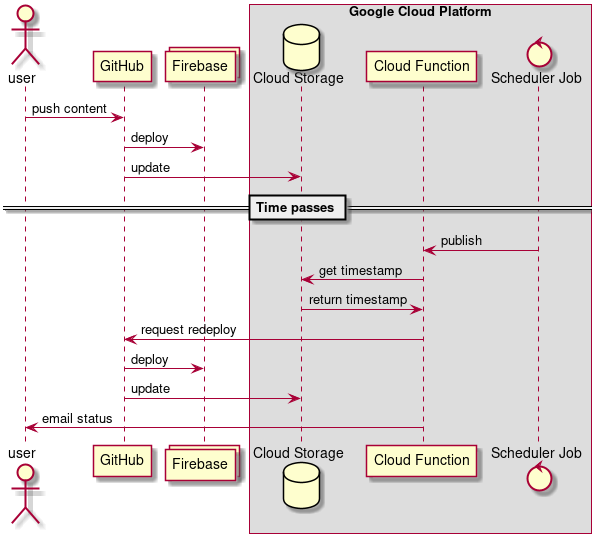
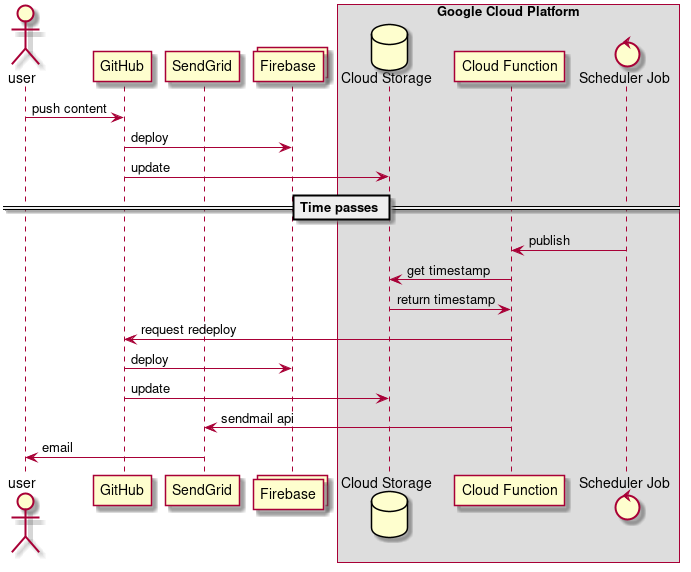
Finish up the docs

diff --git a/README.md b/README.md
@@ -2,7 +2,7 @@
 
 System to redeploy a hugo web site when a future dated post is ready.
 
-[Hugo](https://gohugo.io/) allows the user specify that a peice of content
+[Hugo](https://gohugo.io/) allows the user specify that a piece of content
 (e.g. a post) is not to be added as a part of the site until some date in the
 future. But Hugo is static generator. So, when that date arrives, something
 must regenerate the site and deploy the update to the hosting solution.
@@ -18,6 +18,7 @@ This software is an attempt to automate the task.
 - **Pushes still deploy immediately** No interference with
   "hot-off-the-presses" updates.
 - **Supports Hugo extended**
+- **Email with status**
 
 Last, but not least ...
 
@@ -42,6 +43,10 @@ _time passes_
         - call back into github to start the actions
     3. Send email about what it did (or did not do).
 
+The Scheduler Job is configured by default to run once a day. The system only
+keeps track of posts to the day. In its current state, it cannot redeploy
+things more than once a day.
+
 ## Installing
 
 Lots more documentation to come ...
@@ -50,9 +55,10 @@ Lots more documentation to come ...
 
 #### GitHub Repository
 
-Sure, that might be be obivous, but you need a GitHub repostiry with the site
-already et up. It is very helpful if you already have successfully deployed the
-your site using the repository. That way you things are okay for hugo to run.
+Sure, that might be be obvious, but you need a GitHub repository with the site
+already set up. It is very helpful if you already have successfully deployed
+your site using the repository. That way you things set up correctly for both
+hugo and Firebase.
 
 #### Firebase Project
 
@@ -82,23 +88,120 @@ here:
 - [Cloud SDK/CLI](https://cloud.google.com/sdk/install)
 
 
-### Step 1. Create a Firebase API Key
+### Step 1. Create a Firebase API Key and Add to GitHub as a Secret
 
-use the cli, luke.
+Generate a Firebase authentication token with the CLI command:
 
-### Other steps
+```txt
+firebase login:ci
+```
 
-- Edit `redeploy.json.example` and copy to `redeploy.json`
+You will need to interact with the oauth login screen.
 
-- Set the following environment variables in your crrent shell
-    - GITHUB_AUTH_KEY : A personal access token
-    - EMAIL_API_KEY   : The SendGrid API key
-    - PROJECT_ID      : The name of your GCP Project
+Afterwards, take the token and add it as a secret to GitHub. The secret must be
+named **FIREBASE_TOKEN**.
 
-- run `deploy-cmd.sh function` to create the function
-- run `deploy-cmd.sh trigger` to create the Scheduler Job
-- edit the BUCKET_NAME line in `service_account.sh`
-- run the edited `service_account.sh`
-- add the github secrets as instructed by the script
-- Edit BUCKET_URI in `schedule-redeploy.yml` and copy the workflows to your
-  respository.
+### Step 2. Create a GitHub Personal Access Token
+
+Click on your picture in the upper right hand corner of the GitHub screen and
+choose _Settings_.
+
+In the settings screen choose _Developer Settings_
+
+From there, choose _Personal access tokens_ and follow the prompts.
+
+Be sure to follow the advice on the screen and save the token carefully. You
+can't see again.
+
+You may want to consider using a machine user rather than your personal user
+id. That will allow the scope of the token to be only the one repo.
+
+### Step 3. Create an SendGrid Email API Key
+
+If you are using the SendGrid integration, then create an API Key if you don't
+already have one.
+
+### Step 4. Set Environment Variables for the Install Scripts
+
+Set the following environment variables in your current shell
+
+```bash
+export GITHUB_AUTH_KEY="<key from step 2>"
+export EMAIL_API_KEY="<key from step 3 or -NONE->" 
+export PROJECT_ID="<name of your GCP Project>"
+```
+
+### Step 5. Create `redeploy.json` from `redeploy.json.example`
+
+Edit `redeploy.json.example` and copy to `redeploy.json`
+
+WEBHOOK_URL
+: The URL used to activate the redeploy. For a Firebase deploy, this will
+actually be a pointer into GitHub and will have the form
+  `https://api.github.com/repos/${user}/${repo}/dispatches`.
+
+FROM_ADDRESS
+: If using the email integration, this is the address for the "from" line in
+the envelope.
+
+TO_ADDESS
+: If using the email integration, this is the addess to which to send the
+status email. This can be an array of address.
+
+BUCKET_NAME
+: The name of the Cloud Storage bucket into which the timestamp file is
+written.
+
+DS_FILE_NAME
+: The path and name of the timestamp file to write.
+
+### Step 6. Create GCP objects
+
+Create the Cloud Function by running the command
+
+```txt
+deploy-cmd.sh function
+```
+
+Create the Scheduler Job by running the command
+```txt
+deploy-cmd.sh trigger
+```
+
+### Step 7. Set up permissions
+
+In order for the GitHub action to write to the Storage Bucket, it must be given
+permission to do so.
+
+Edit the BUCKET_NAME line in `service_account.sh`. This must match the bucket
+name you used in step 5.
+
+Run the edited `service_account.sh`.
+
+This script will
+- create the bucket
+- create a service account for GitHub
+- add the service account to the bucket with permissions to create,write
+  objects.
+- add the service account for the function to the bucket.
+- create a key pair for the new service account.
+- print instructions on what to do with the data.
+
+Be sure to add the secrets as instructed.
+
+### Step 8. Copy the workflows to the site repository
+
+```bash
+cp -R workflow/.github ${PATH_TO_REPO}
+${EDITOR} ${PATH_TO_REPO}/.github/workflows//schedule-redeploy.yml
+```
+
+Change the BUCKET_URI to match the BUCKET_NAME used above.
+
+If the BUCKET_NAME is `mybucket`, then the BUCKET_URI will be `gs://mybucket`.
+
+Commit and push the workflows to your repository.
+
+### Step 9. Enjoy
+
+Write some nice new content.
